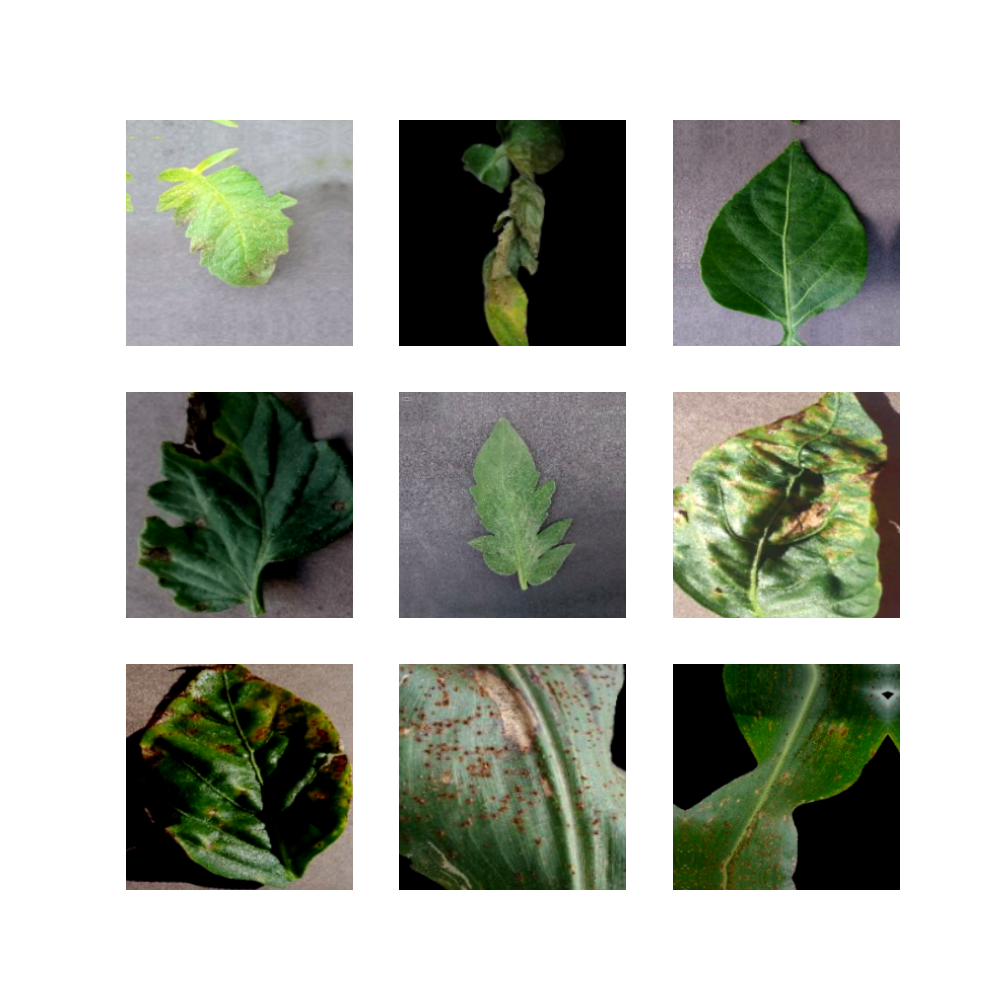
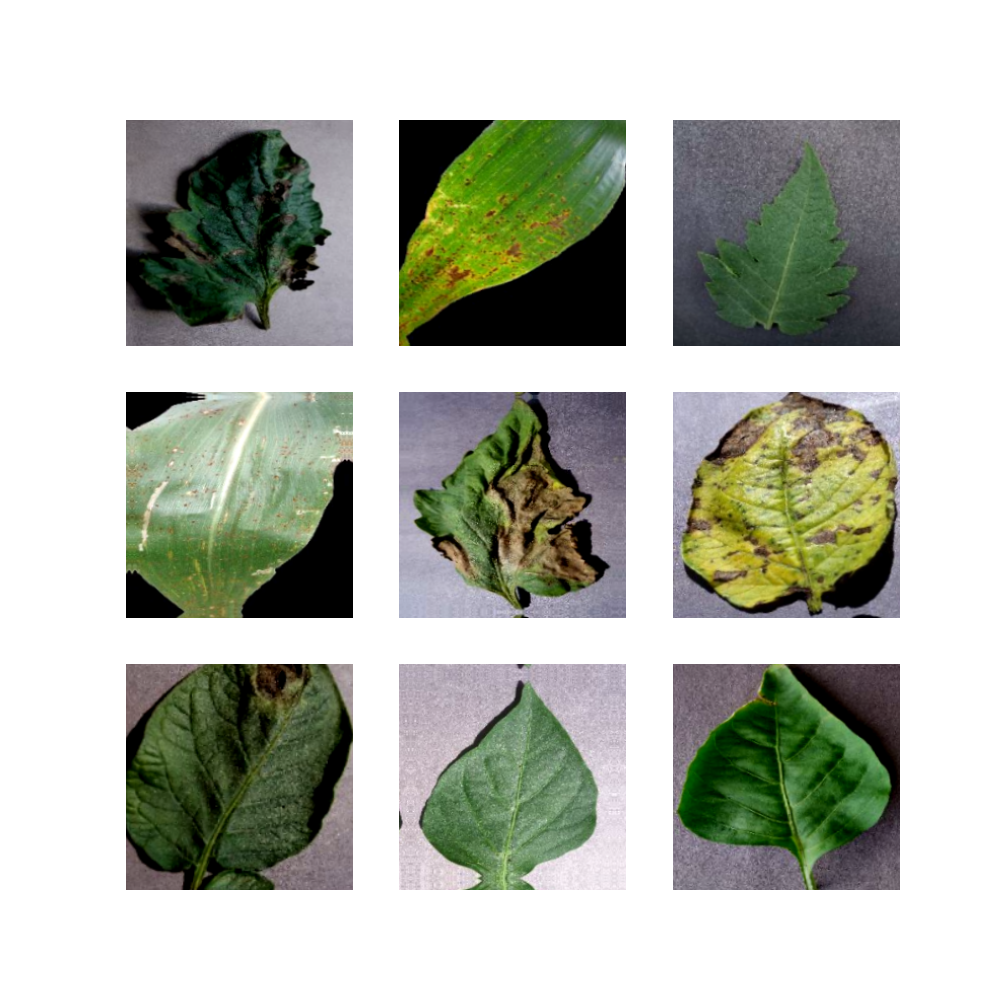
Fixed local training and prediction pipeline

diff --git a/src/train.py b/src/train.py
@@ -1,39 +1,225 @@
-"""
-Zar3y — Transfer-Learning Training (Requirement 2)
+import os
+import json
+import tensorflow as tf
+from tensorflow.keras import layers, models
+from tensorflow.keras.applications import MobileNetV3Small
+from tensorflow.keras.applications.mobilenet_v3 import preprocess_input
+from tensorflow.keras.callbacks import EarlyStopping, ModelCheckpoint, ReduceLROnPlateau
+from tensorflow.keras.preprocessing import image_dataset_from_directory
+from sklearn.utils.class_weight import compute_class_weight
+import numpy as np
 
-This module handles:
-1. Loading MobileNetV3-Small pretrained on ImageNet
-2. Phase 1: Freeze backbone, train classifier head for 10 epochs
-3. Phase 2: Unfreeze last 30 layers, fine-tune for 10 epochs at LR/10
-4. Early stopping on val_loss (patience=5)
-5. Save best checkpoint to models/best_model.h5
-6. Class-weighted loss if any class has < 500 images
 
-Deliverables:
-- models/best_model.h5
-- Training history for plotting curves
-"""
+# -----------------------------
+# Config
+# -----------------------------
+IMAGE_SIZE = (224, 224)
+BATCH_SIZE = 32
+SEED = 42
 
-# TODO: Implement training pipeline
-#
-# Key functions to implement:
-#
-# def build_model(num_classes, image_size):
-#     """Build MobileNetV3-Small with custom classifier head."""
-#     pass
-#
-# def compute_class_weights(train_labels):
-#     """Compute class weights for imbalanced classes."""
-#     pass
-#
-# def train_phase1(model, train_ds, val_ds, epochs, class_weights):
-#     """Phase 1: frozen backbone training."""
-#     pass
-#
-# def train_phase2(model, train_ds, val_ds, epochs, class_weights):
-#     """Phase 2: fine-tune last 30 layers at 10x lower LR."""
-#     pass
-#
-# if __name__ == "__main__":
-#     # Run full training pipeline
-#     pass
+BASE_PATH = r"D:\Zar3y-Explainable-Crop-Disease-Detection-for-Smallholder-Farmers"
+
+TRAIN_DIR = os.path.join(BASE_PATH, "data", "split_data", "train")
+VAL_DIR   = os.path.join(BASE_PATH, "data", "split_data", "val")
+
+MODEL_PATH = os.path.join(BASE_PATH, "models", "best_model.keras")
+HISTORY_PATH = os.path.join(BASE_PATH, "outputs", "training_history.json")
+
+os.makedirs(os.path.join(BASE_PATH, "models"), exist_ok=True)
+os.makedirs(os.path.join(BASE_PATH, "outputs"), exist_ok=True)
+
+
+# -----------------------------
+# Load datasets
+# -----------------------------
+train_ds = image_dataset_from_directory(
+    TRAIN_DIR,
+    image_size=IMAGE_SIZE,
+    batch_size=BATCH_SIZE,
+    seed=SEED
+)
+
+val_ds = image_dataset_from_directory(
+    VAL_DIR,
+    image_size=IMAGE_SIZE,
+    batch_size=BATCH_SIZE,
+    seed=SEED
+)
+
+print("Classes:", train_ds.class_names)
+NUM_CLASSES = len(train_ds.class_names)
+
+
+AUTOTUNE = tf.data.AUTOTUNE
+train_ds = train_ds.shuffle(1000).prefetch(AUTOTUNE)
+val_ds = val_ds.prefetch(AUTOTUNE)
+
+
+# -----------------------------
+# Data augmentation
+# -----------------------------
+data_augmentation = tf.keras.Sequential([
+    layers.RandomFlip("horizontal"),
+    layers.RandomRotation(0.04),
+    layers.RandomBrightness(0.2),
+    layers.RandomContrast(0.2),
+    layers.RandomZoom(0.2),
+])
+
+
+# -----------------------------
+# Build model
+# -----------------------------
+def build_model(num_classes):
+
+    inputs = tf.keras.Input(shape=(224, 224, 3))
+
+    x = data_augmentation(inputs)
+    x = preprocess_input(x)
+
+    base_model = MobileNetV3Small(
+        input_shape=(224, 224, 3),
+        include_top=False,
+        weights="imagenet"
+    )
+
+    base_model.trainable = False
+
+    x = base_model(x, training=False)
+    x = layers.GlobalAveragePooling2D()(x)
+    x = layers.Dropout(0.3)(x)
+    outputs = layers.Dense(num_classes, activation="softmax")(x)
+
+    model = models.Model(inputs, outputs)
+
+    return model, base_model
+
+
+# -----------------------------
+# Class weights (FIXED)
+# -----------------------------
+def compute_class_weights(train_ds):
+
+    labels = []
+
+    for _, y in train_ds:
+        labels.extend(y.numpy().tolist())
+
+    labels = np.array(labels)
+
+    weights = compute_class_weight(
+        class_weight="balanced",
+        classes=np.unique(labels),
+        y=labels
+    )
+
+    return dict(enumerate(weights))
+
+
+# -----------------------------
+# Callbacks
+# -----------------------------
+def get_callbacks():
+
+    return [
+        EarlyStopping(
+            monitor="val_loss",
+            patience=5,
+            restore_best_weights=True
+        ),
+
+        ModelCheckpoint(
+            MODEL_PATH,
+            monitor="val_loss",
+            save_best_only=True,
+            verbose=1
+        ),
+
+        ReduceLROnPlateau(
+            monitor="val_loss",
+            factor=0.2,
+            patience=2
+        )
+    ]
+
+
+# -----------------------------
+# Phase 1
+# -----------------------------
+def train_phase1(model, train_ds, val_ds, epochs, class_weights):
+
+    model.compile(
+        optimizer=tf.keras.optimizers.Adam(1e-3),
+        loss="sparse_categorical_crossentropy",
+        metrics=["accuracy"]
+    )
+
+    history = model.fit(
+        train_ds,
+        validation_data=val_ds,
+        epochs=epochs,
+        callbacks=get_callbacks(),
+        class_weight=class_weights
+    )
+
+    return history
+
+
+# -----------------------------
+# Phase 2
+# -----------------------------
+def train_phase2(model, base_model, train_ds, val_ds, epochs, class_weights):
+
+    base_model.trainable = True
+
+    for layer in base_model.layers[:-30]:
+        layer.trainable = False
+
+    model.compile(
+        optimizer=tf.keras.optimizers.Adam(1e-4),
+        loss="sparse_categorical_crossentropy",
+        metrics=["accuracy"]
+    )
+
+    history = model.fit(
+        train_ds,
+        validation_data=val_ds,
+        epochs=epochs,
+        callbacks=get_callbacks(),
+        class_weight=class_weights
+    )
+
+    return history
+
+
+# -----------------------------
+# Main
+# -----------------------------
+if __name__ == "__main__":
+
+    model, base_model = build_model(NUM_CLASSES)
+
+    print("\nComputing class weights...")
+    class_weights = compute_class_weights(train_ds)
+    print("Class Weights:", class_weights)
+
+    print("\n🚀 Phase 1 Training...")
+    history1 = train_phase1(model, train_ds, val_ds, 10, class_weights)
+
+    print("\n🚀 Phase 2 Fine-tuning...")
+    history2 = train_phase2(model, base_model, train_ds, val_ds, 10, class_weights)
+
+    # combine history
+combined = {}
+for k in history1.history:
+    combined[k] = history1.history[k] + history2.history[k]
+
+# convert numpy types → python native types
+for k in combined:
+    combined[k] = [float(x) for x in combined[k]]
+
+with open(HISTORY_PATH, "w") as f:
+    json.dump(combined, f, indent=4)
+
+    print("\n✅ Training completed!")
+    print(f"Model saved at: {MODEL_PATH}")